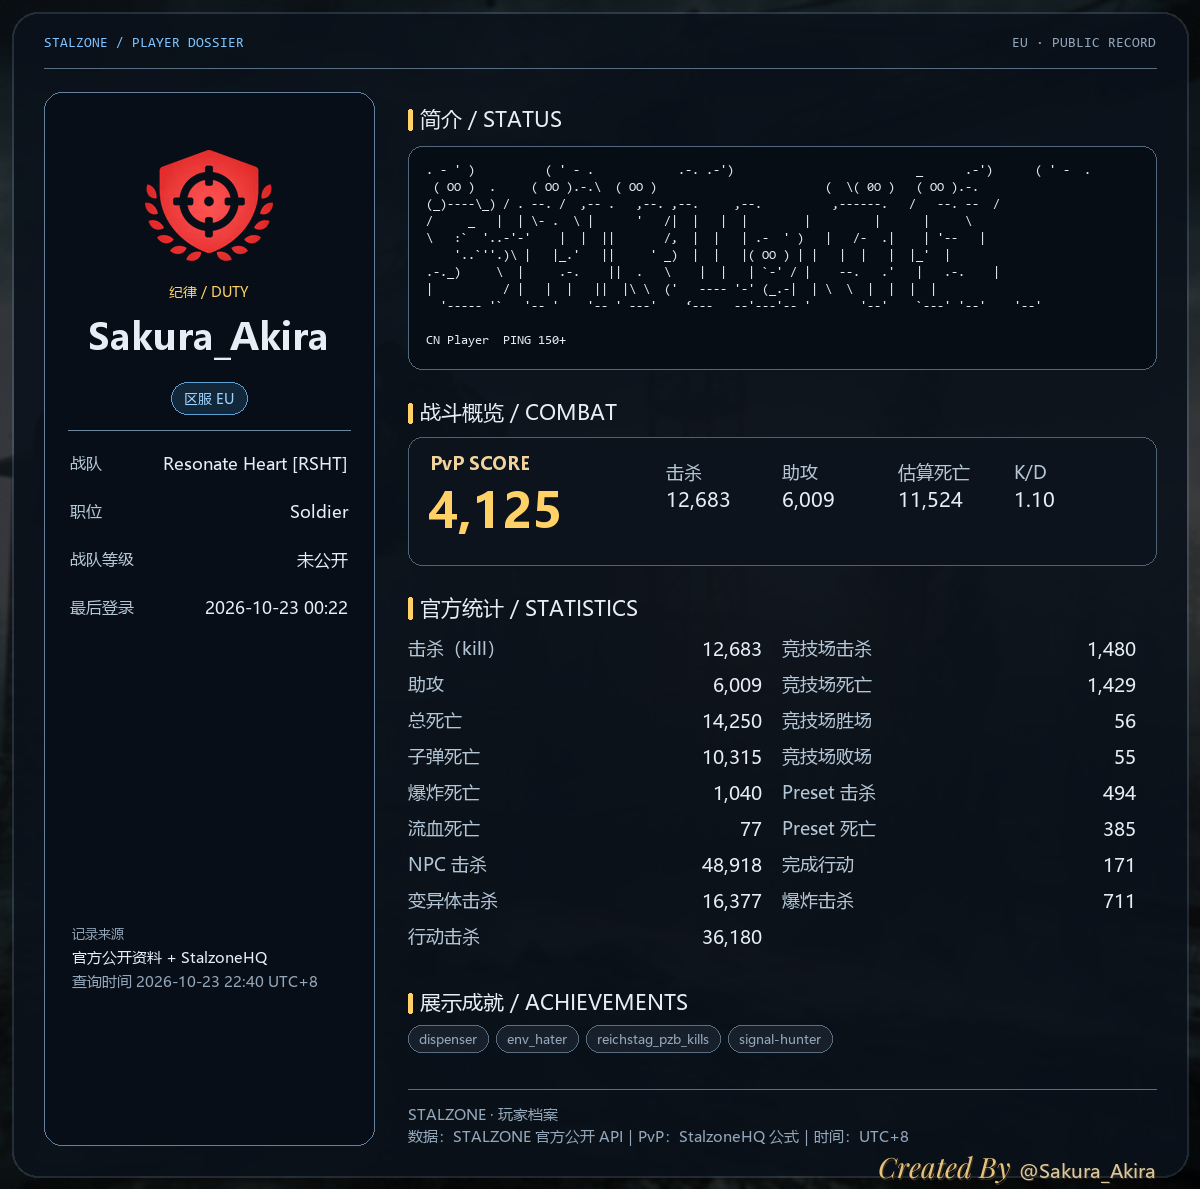
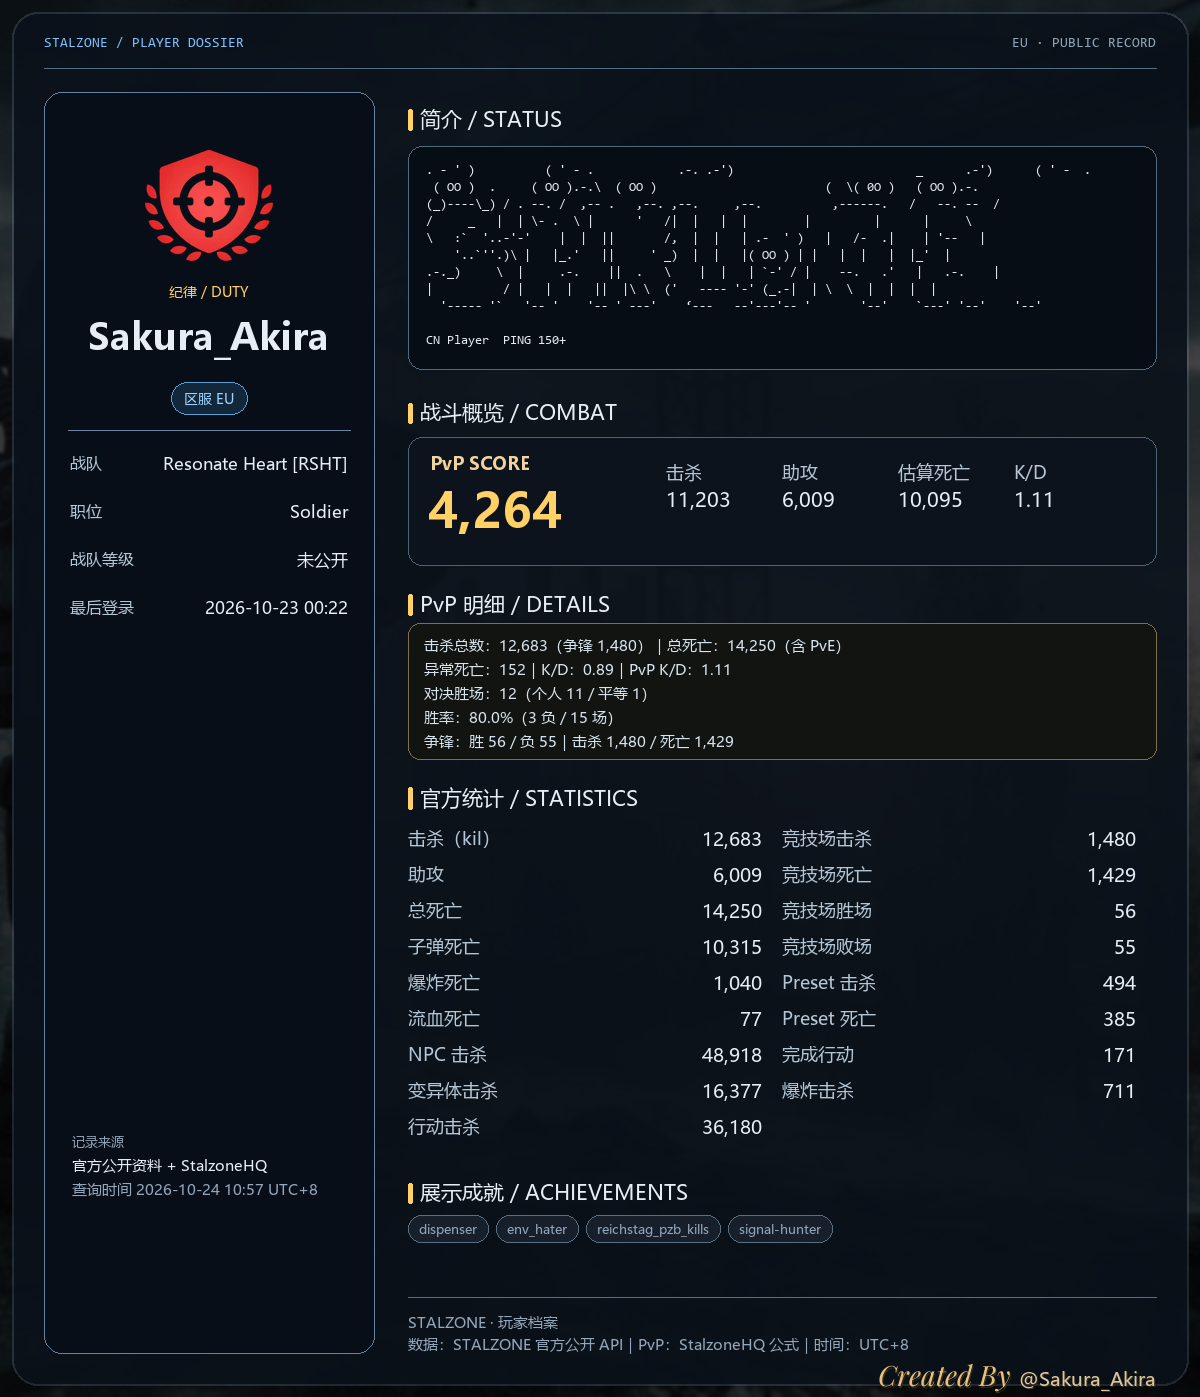
feat: align PvP score with HQ details

diff --git a/formatters.py b/formatters.py
@@ -38,7 +38,7 @@ STAT_LABELS = {
     "level": "等级",
     "character_level": "角色等级",
     "playtime": "游戏时长",
-    "kil": "击杀（kill）",
+    "kil": "击杀（kil）",
     "ast": "助攻",
     "dea": "总死亡",
     "bul-dea": "子弹死亡",
@@ -1302,21 +1302,18 @@ def _profile_stat_rows(stats: Any) -> list[str]:
 
 HQ_PVP_DEATH_KEYS = (
     "bul-dea",
+    "col-dea",
     "exp-dea",
     "ble-to-dea",
-    "col-dea",
-    "mel-dea",
-    "melee-dea",
-    "kni-dea",
 )
 
 
 def calculate_hq_pvp_score(stats: Any) -> dict[str, Any] | None:
-    """Apply StalzoneHQ's documented Open World PvP estimate formula.
+    """Apply the current StalzoneHQ Open World PvP formula.
 
-    Formula: ((kills + assists * 0.5) / (deaths * 0.33)) * 1000
-    Deaths are the sum of bullet/explosion/bleeding/melee death counters.
-    This is a third-party estimate, not an official combat rating.
+    Kills exclude battlefield (争锋) kills; PvP deaths exclude battlefield
+    deaths and use only bullet/melee/explosion/bleeding deaths.  The score is
+    floored to an integer, matching the public HQ player page.
     """
     if not isinstance(stats, list):
         return None
@@ -1325,22 +1322,94 @@ def calculate_hq_pvp_score(stats: Any) -> dict[str, Any] | None:
         for stat in stats
         if isinstance(stat, dict)
     }
-    kills = _safe_int(values.get("kil", values.get("kills")))
+    kills_total = _safe_int(values.get("kil", values.get("kills")))
+    kills_bf = _safe_int(values.get("kills-bf")) or 0
     assists = _safe_int(values.get("ast", values.get("assists")))
-    deaths = sum(
+    deaths_bf = _safe_int(values.get("deaths-bf")) or 0
+    deaths_components = sum(
         _safe_int(values.get(key)) or 0
         for key in HQ_PVP_DEATH_KEYS
     )
-    if kills is None or assists is None or deaths <= 0:
+    deaths_pvp = max(0, deaths_components - deaths_bf)
+    if kills_total is None or assists is None or deaths_pvp <= 0:
         return None
-    score = ((kills + assists * 0.5) / (deaths * 0.33)) * 1000
+    kills_pvp = max(0, kills_total - kills_bf)
+    score = ((kills_pvp + assists * 0.5) / (deaths_pvp * 0.33)) * 1000
+
+    deaths_total = _safe_int(values.get("dea")) or 0
+    anomaly_deaths = _safe_int(values.get("ano-dea")) or 0
+    wins_personal = _safe_int(values.get("won-fights-personal")) or 0
+    wins_equal = _safe_int(values.get("won-fights-equal")) or 0
+    wins = wins_personal + wins_equal
+    fights_total = _safe_int(values.get("fights-part")) or 0
+    losses = 0
+    for key in ("lost-fights", "lost-fights-personal", "lost-fights-equal"):
+        losses += _safe_int(values.get(key)) or 0
+    if fights_total <= 0:
+        fights_total = wins + losses
+    if losses <= 0 and fights_total >= wins:
+        losses = fights_total - wins
+    if fights_total <= 0:
+        fights_total = wins + losses
+    win_rate = (wins * 100.0 / fights_total) if fights_total > 0 else None
+
+    bf_wins = _safe_int(values.get("won-bf")) or 0
+    bf_losses = _safe_int(values.get("lost-bf")) or 0
+    bf_total = _safe_int(values.get("part-bf")) or (bf_wins + bf_losses)
     return {
         "score": int(score),
-        "kills": kills,
+        "kills": kills_pvp,
+        "kills_total": kills_total,
+        "kills_bf": kills_bf,
         "assists": assists,
-        "deaths": deaths,
-        "kd": kills / deaths,
+        "deaths": deaths_pvp,
+        "deaths_total": deaths_total,
+        "deaths_bf": deaths_bf,
+        "anomaly_deaths": anomaly_deaths,
+        "kd": kills_pvp / deaths_pvp,
+        "kd_total": (kills_total / deaths_total) if deaths_total > 0 else None,
+        "pvp_kd": kills_pvp / deaths_pvp,
+        "wins": wins,
+        "wins_personal": wins_personal,
+        "wins_equal": wins_equal,
+        "losses": losses,
+        "fights_total": fights_total,
+        "win_rate": win_rate,
+        "bf_wins": bf_wins,
+        "bf_losses": bf_losses,
+        "bf_total": bf_total,
+        "bf_kills": kills_bf,
+        "bf_deaths": deaths_bf,
     }
+
+def _hq_detail_lines(hq: dict[str, Any]) -> list[str]:
+    def rate(value: Any) -> str:
+        return f"{float(value):.1f}%" if value is not None else "—"
+
+    kd_total = f"{hq['kd_total']:.2f}" if hq.get("kd_total") is not None else "—"
+    return [
+        (
+            f"击杀总数：{hq['kills_total']:,}（争锋 {hq['kills_bf']:,}）"
+            f"｜总死亡：{hq['deaths_total']:,}（含 PvE）"
+        ),
+        (
+            f"异常死亡：{hq['anomaly_deaths']:,}"
+            f"｜K/D：{kd_total}"
+            f"｜PvP K/D：{hq['pvp_kd']:.2f}"
+        ),
+        (
+            f"对决胜场：{hq['wins']:,}（个人 {hq['wins_personal']:,} / "
+            f"平等 {hq['wins_equal']:,}）"
+        ),
+        (
+            f"胜率：{rate(hq.get('win_rate'))}"
+            f"（{hq['losses']:,} 负 / {hq['fights_total']:,} 场）"
+        ),
+        (
+            f"争锋：胜 {hq['bf_wins']:,} / 负 {hq['bf_losses']:,}"
+            f"｜击杀 {hq['bf_kills']:,} / 死亡 {hq['bf_deaths']:,}"
+        ),
+    ]
 
 
 def build_profile_view(
@@ -1401,6 +1470,8 @@ def build_profile_view(
         clan_rows.append("无 / API 未返回")
 
     hq = calculate_hq_pvp_score(payload.get("stats"))
+    if hq:
+        hq["detail_lines"] = _hq_detail_lines(hq)
     stat_rows = _profile_stat_rows(payload.get("stats"))
 
     lunar_rows: list[str] = []
@@ -1520,9 +1591,9 @@ def format_profile(
                 "开放世界 PvP（StalzoneHQ 公式）",
                 [
                     f"PvP Score：{hq['score']:,}",
-                    f"击杀：{hq['kills']:,}｜助攻：{hq['assists']:,}｜估算死亡：{hq['deaths']:,}",
-                    f"K/D（估算）：{hq['kd']:.2f}",
-                    "公式：((击杀 + 助攻×0.5) / (估算死亡×0.33)) × 1000",
+                    f"开放世界击杀：{hq['kills']:,}｜助攻：{hq['assists']:,}｜PvP 死亡估计：{hq['deaths']:,}",
+                    *list(hq.get("detail_lines") or []),
+                    "公式：((开放世界击杀 + 助攻×0.5) ÷ (PvP 死亡估计×0.33)) × 1000，向下取整",
                     "注：HQ 页面显示的是其缓存分，可能与此实时统计值不同",
                 ],
             )

diff --git a/tests/test_plugin.py b/tests/test_plugin.py
@@ -770,6 +770,36 @@ class FormatterTests(unittest.TestCase):
         self.assertTrue(path.exists())
         path.unlink(missing_ok=True)
 
+    def test_hq_current_formula_and_fight_stats(self):
+        stats = [
+            {"id": "kil", "value": 42083},
+            {"id": "kills-bf", "value": 11053},
+            {"id": "ast", "value": 16434},
+            {"id": "dea", "value": 60286},
+            {"id": "bul-dea", "value": 30000},
+            {"id": "col-dea", "value": 20000},
+            {"id": "exp-dea", "value": 5000},
+            {"id": "ble-to-dea", "value": 878},
+            {"id": "deaths-bf", "value": 19695},
+            {"id": "ano-dea", "value": 627},
+            {"id": "won-fights-personal", "value": 1347},
+            {"id": "won-fights-equal", "value": 149},
+            {"id": "fights-part", "value": 2516},
+            {"id": "won-bf", "value": 533},
+            {"id": "lost-bf", "value": 634},
+            {"id": "part-bf", "value": 1167},
+        ]
+        hq = calculate_hq_pvp_score(stats)
+        self.assertIsNotNone(hq)
+        self.assertEqual(hq["kills"], 31030)
+        self.assertEqual(hq["deaths"], 36183)
+        self.assertEqual(hq["score"], 3286)
+        self.assertEqual(hq["wins"], 1496)
+        self.assertEqual(hq["losses"], 1020)
+        self.assertEqual(hq["win_rate"], 1496 * 100 / 2516)
+        self.assertEqual(hq["kd"], 31030 / 36183)
+        self.assertEqual(hq["kd_total"], 42083 / 60286)
+
     def test_profile_hq_section(self):
         payload = {
             "username": "Sakura_Akira",
@@ -791,7 +821,7 @@ class FormatterTests(unittest.TestCase):
         )
         self.assertIn("开放世界 PvP", text)
         self.assertIn("PvP Score：4,158", text)
-        self.assertIn("估算死亡：11,430", text)
+        self.assertIn("PvP 死亡估计：11,430", text)
         self.assertIn("StalzoneHQ", text)
 
     def test_profile_lunar_section(self):

diff --git a/image_renderer.py b/image_renderer.py
@@ -1660,6 +1660,8 @@ def render_profile_card(
     stats_height = per_col * 36
     achievements = [str(x) for x in (view.get("achievements") or [])]
     hq = view.get("hq") if isinstance(view.get("hq"), dict) else None
+    pvp_detail_lines = list(hq.get("detail_lines") or []) if hq else []
+    pvp_detail_h = 16 + len(pvp_detail_lines) * 24 if pvp_detail_lines else 0
     achievement_rows = 1
     if achievements:
         ax = 0
@@ -1674,7 +1676,9 @@ def render_profile_card(
     y = content_y
     if bio_height:
         y += 42 + bio_height + 28
-    y += 42 + 118 + 28  # combat heading + panel + gap
+    y += 42 + 128 + 24  # combat heading + panel + gap
+    if pvp_detail_h:
+        y += 42 + pvp_detail_h + 24
     y += 42 + stats_height + (24 if stat_note else 0) + 28
     if achievements:
         y += 42 + achievement_rows * 32 + 2 + 24
@@ -1815,7 +1819,25 @@ def render_profile_card(
             draw.text((mx, panel_y + 48), value, font=combat_value_font, fill=TEXT)
     else:
         draw.text((right_x + 22, panel_y + 42), "暂无 PvP 统计", font=body_font, fill=MUTED)
-    ry = panel_y + 128 + 28
+    ry = panel_y + 128 + 24
+    if pvp_detail_lines:
+        _draw_section_heading(
+            draw, right_x, ry, "PvP 明细 / DETAILS", section_font, "#FFD166"
+        )
+        detail_top = ry + 34
+        draw.rounded_rectangle(
+            (right_x, detail_top, right_x + right_w, detail_top + pvp_detail_h),
+            radius=12, fill=(18, 20, 18, 195), outline=(126, 112, 72, 90), width=1,
+        )
+        dy = detail_top + 12
+        for line in pvp_detail_lines:
+            draw.text(
+                (right_x + 16, dy),
+                _fit_text(draw, line, small_font, right_w - 32),
+                font=small_font, fill="#D7E3EC",
+            )
+            dy += 24
+        ry = detail_top + pvp_detail_h + 24
 
     section_label_y = ry
     _draw_section_heading(

diff --git a/api_client.py b/api_client.py
@@ -29,7 +29,7 @@ DEFAULT_MAX_RETRIES = 2
 DEFAULT_RETRY_BASE_DELAY = 0.5
 RETRY_STATUS_CODES = frozenset({429, 500, 502, 503, 504})
 VALID_REGIONS = frozenset({"ru", "eu", "na", "sea", "nea"})
-USER_AGENT = "astrbot-plugin-stalzone/1.0.26"
+USER_AGENT = "astrbot-plugin-stalzone/1.0.27"
 
 _ITEM_ID_RE = re.compile(r"^[^\x00-\x1f/\\]{1,128}$")
 

diff --git a/main.py b/main.py
@@ -180,7 +180,7 @@ UUID_RE = re.compile(
     r"^[0-9a-fA-F]{8}-[0-9a-fA-F]{4}-[0-9a-fA-F]{4}-[0-9a-fA-F]{4}-[0-9a-fA-F]{12}$"
 )
 ITEM_ID_RE = re.compile(r"^[A-Za-z0-9_-]{1,128}$")
-PLUGIN_VERSION = "1.0.26"
+PLUGIN_VERSION = "1.0.27"
 SZ_BARE_RE = r"(?i)^\s*(?:sz|stalzone)(?:@\S+)?\s+"
 
 

diff --git a/CHANGELOG.md b/CHANGELOG.md
@@ -3,6 +3,18 @@
 All notable changes to this project are documented here.
 The project follows [Semantic Versioning](https://semver.org/).
 
+## 1.0.27 - 2026-10-23
+
+### Changed
+
+- Updated Open World PvP scoring to the current STALZONEHQ formula: subtract `kills-bf` from `kil`, subtract `deaths-bf` from the bullet/melee/explosion/bleeding deaths, and floor the result.
+- Added full PvP breakdown to the player card/text: total kills/deaths, battlefield kills/deaths, anomaly deaths, total and PvP K/D, duel wins (personal/equal), win rate, and battlefield win/loss record.
+- Restored the `kil` spelling in the official-stat label; only the PvP/duel fields use the new labels.
+
+### Tests
+
+- Added the user-provided HQ example (score 3,286) and field checks; 153 tests pass.
+
 ## 1.0.26 - 2026-10-23
 
 ### Fixed

diff --git a/README.en.md b/README.en.md
@@ -7,7 +7,7 @@
 Auction · Emissions · Players · Clans · Items · Candidates · Season Pass
 
 ![AstrBot](https://img.shields.io/badge/AstrBot-plugin-5865F2?style=flat-square)
-![Version](https://img.shields.io/badge/version-1.0.26-22c55e?style=flat-square)
+![Version](https://img.shields.io/badge/version-1.0.27-22c55e?style=flat-square)
 ![Python](https://img.shields.io/badge/Python-3.10%2B-3776AB?style=flat-square)
 ![Platform](https://img.shields.io/badge/platform-QQ%20%2F%20OneBot-F97316?style=flat-square)
 ![API](https://img.shields.io/badge/data-Official%20STALZONE%20API-0EA5E9?style=flat-square)

diff --git a/README.md b/README.md
@@ -7,7 +7,7 @@
 拍卖 · 风暴 · 玩家 · 战队 · 物品 · 候选卡 · 通行证计算
 
 ![AstrBot](https://img.shields.io/badge/AstrBot-plugin-5865F2?style=flat-square)
-![Version](https://img.shields.io/badge/version-1.0.26-22c55e?style=flat-square)
+![Version](https://img.shields.io/badge/version-1.0.27-22c55e?style=flat-square)
 ![Python](https://img.shields.io/badge/Python-3.10%2B-3776AB?style=flat-square)
 ![Platform](https://img.shields.io/badge/platform-QQ%20%2F%20OneBot-F97316?style=flat-square)
 ![API](https://img.shields.io/badge/data-Official%20STALZONE%20API-0EA5E9?style=flat-square)
